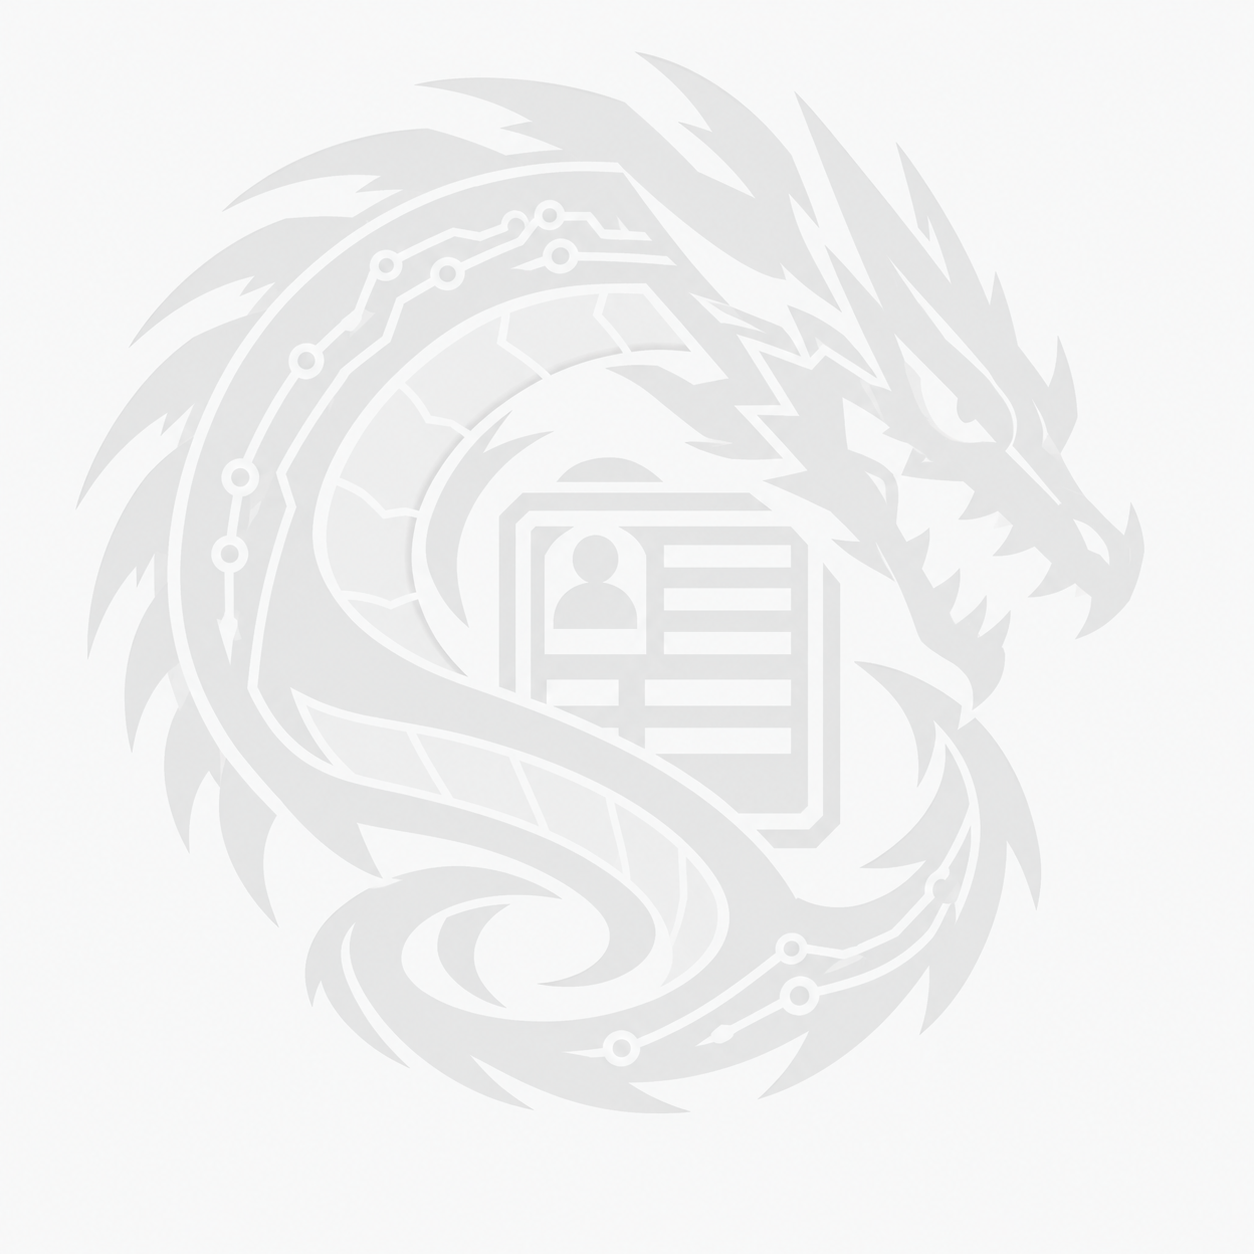
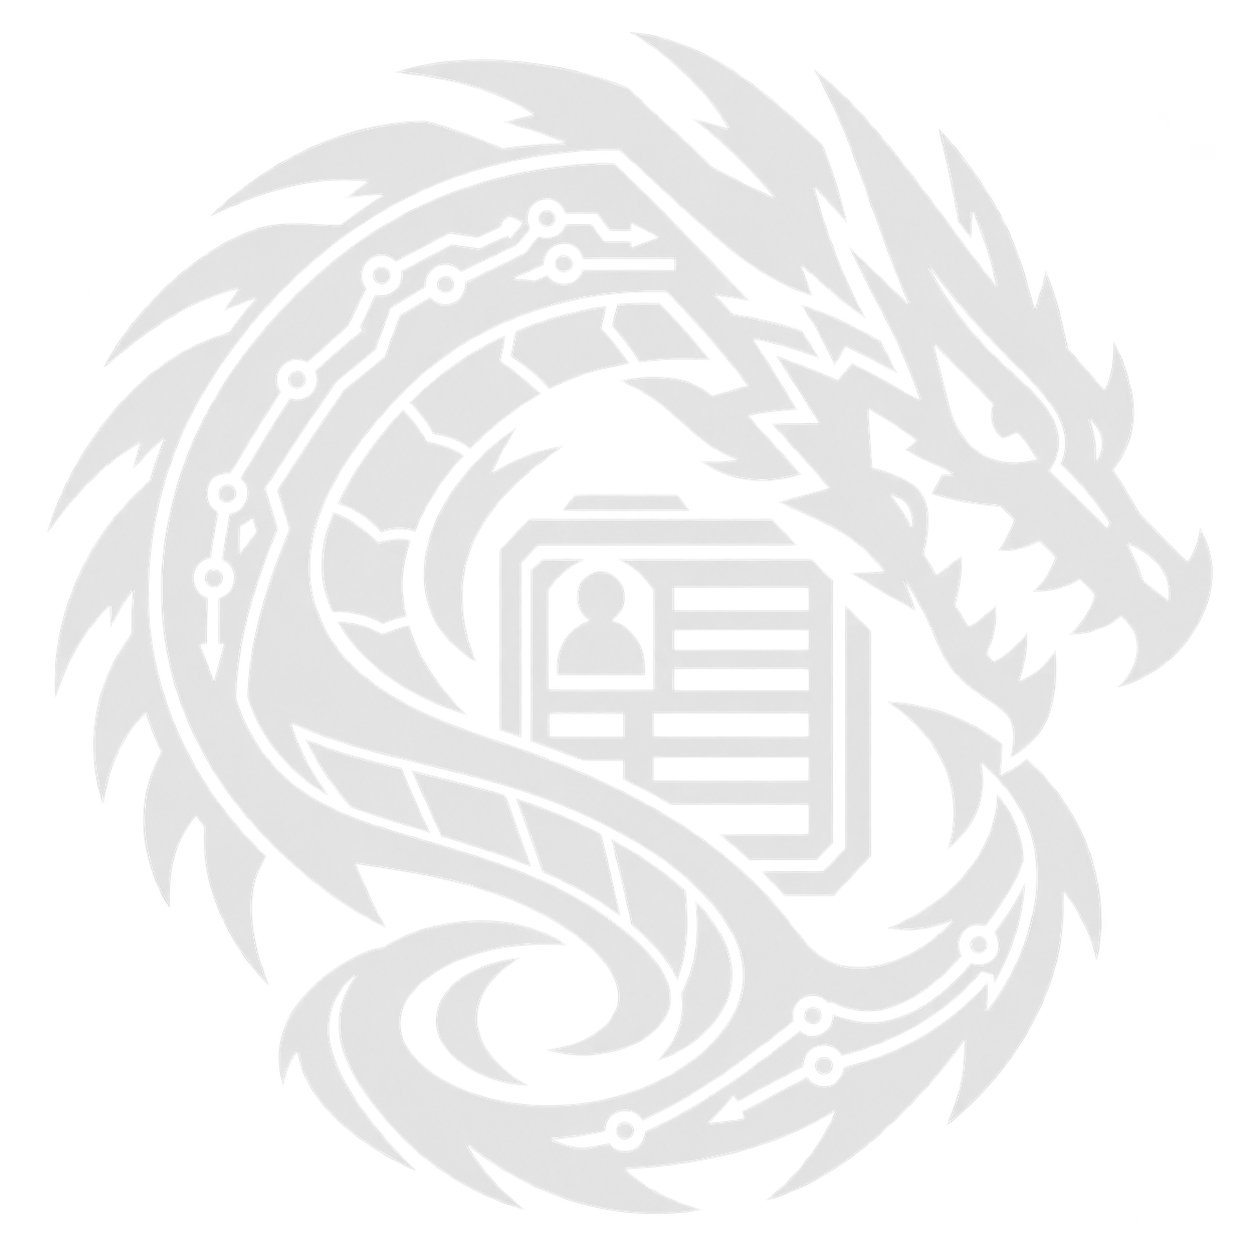
Use supplied transparent dragon artwork and verify both theme variants

diff --git a/Chummer.Mac/code/NativePacksInteractionChecks.cs b/Chummer.Mac/code/NativePacksInteractionChecks.cs
@@ -31,6 +31,10 @@ internal static class NativePacksInteractionChecks
         var workspace = main.Controls.OfType<MdiClient>().Single();
         check(main.MdiChildren.Length == 0 && workspace.BackgroundImage != null && workspace.BackgroundImageLayout == ImageLayout.Zoom,
             "Native empty workspace displays aspect-preserving artwork before character selection");
+        using (var artwork = SkiaSharp.SKBitmap.Decode(Path.Combine(AppContext.BaseDirectory, "branding", "workspace-emblem.png")))
+            check(artwork != null && artwork.GetPixel(0, 0).Alpha == 0 &&
+                artwork.GetPixel(artwork.Width - 1, artwork.Height - 1).Alpha == 0,
+                "Native workspace artwork retains transparent corners instead of an opaque rectangle");
         var app = Avalonia.Application.Current!;
         var originalTheme = app.RequestedThemeVariant;
         try
@@ -50,18 +54,23 @@ internal static class NativePacksInteractionChecks
         try
         {
             nativeMain.WindowState = Avalonia.Controls.WindowState.Normal;
+            foreach (var theme in new[] { Avalonia.Styling.ThemeVariant.Light, Avalonia.Styling.ThemeVariant.Dark })
             foreach (var size in new[] { (Width: 900, Height: 650), (Width: 1200, Height: 850) })
             {
+                app.RequestedThemeVariant = theme;
                 nativeMain.Width = size.Width; nativeMain.Height = size.Height; await Task.Delay(120);
                 // Capture only the empty workspace: no character fields are visible.
                 using var image = new Avalonia.Media.Imaging.RenderTargetBitmap(
                     new Avalonia.PixelSize((int)nativeMain.ClientSize.Width, (int)nativeMain.ClientSize.Height));
                 image.Render(nativeMain);
-                image.Save(Path.Combine(output, "native-empty-workspace-" + size.Width + ".png"),
+                image.Save(Path.Combine(output, "native-empty-workspace-" + theme.Key.ToString()!.ToLowerInvariant() + "-" + size.Width + ".png"),
                     Avalonia.Media.Imaging.PngBitmapEncoderOptions.Default);
             }
         }
-        finally { nativeMain.Width = originalWidth; nativeMain.Height = originalHeight; nativeMain.WindowState = originalState; }
+        finally {
+            app.RequestedThemeVariant = originalTheme;
+            nativeMain.Width = originalWidth; nativeMain.Height = originalHeight; nativeMain.WindowState = originalState;
+        }
         var copy = new Character(); copy.LoadSnapshot(source.CaptureSnapshot());
         var editor = new frmCreate(copy) { Loading = true, MdiParent = main };
         frmCreate? replacement = null;

diff --git a/docs/SECTION_MODERNIZATION.md b/docs/SECTION_MODERNIZATION.md
@@ -50,4 +50,4 @@ Actual PACKS replacement followed by Add Armor/Add Gear cancellation is part of 
 
 Every migrated section must respect the application/system light and dark theme, including live changes. Prefer theme resources to fixed presentation colors; explicit semantic colors such as review-required warnings still need readable contrast. Workspace artwork must use real alpha transparency rather than a baked light/dark rectangle. Native checks exercise the maintained host-theme bridge for the legacy workspace; native screen migrations also need light/dark visual review. The top-level legacy window explicitly starts `MajorsilenceFormsTheme.FollowHost` because it is not an embedded presenter. This does not claim all legacy designer colors have already been migrated.
 
-Replacement artwork is pending: the user-supplied `dragon transparent.png` is RGB with no alpha or tRNS chunk. Automatic cutouts did not retain acceptable clean edges and were not adopted; obtain a genuine transparent export before replacing the checked-in artwork.
+The workspace uses the user's transparent circular dragon PNG unchanged. Native checks verify transparent corners and capture the empty workspace at two sizes in both themes, so an opaque background cannot silently return.
